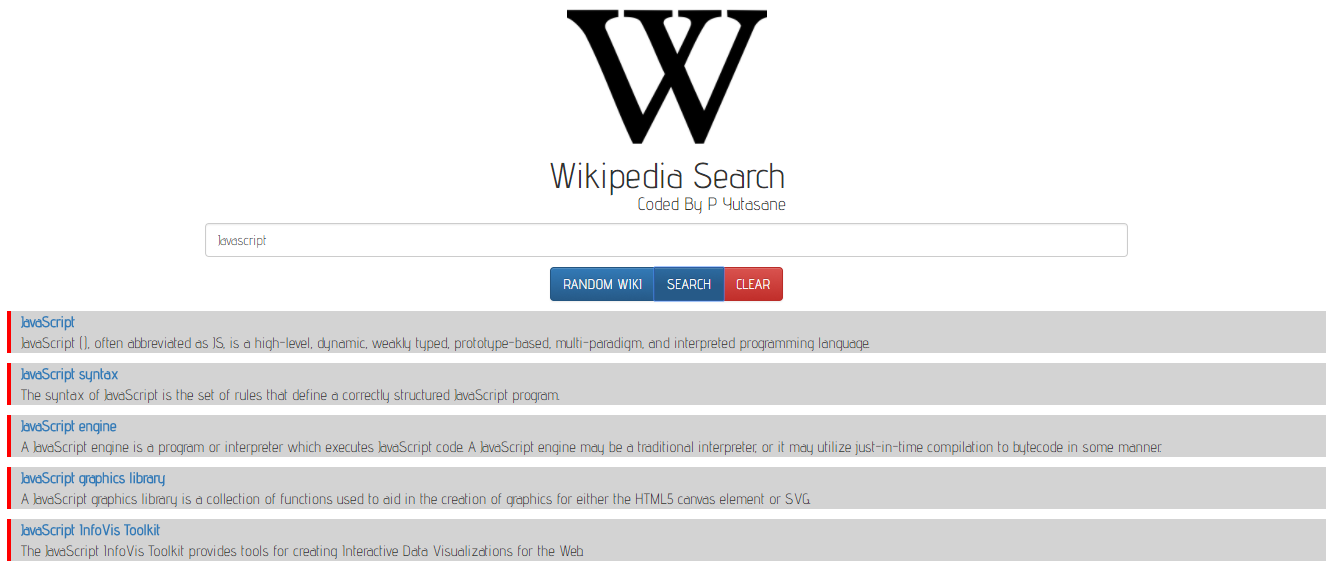
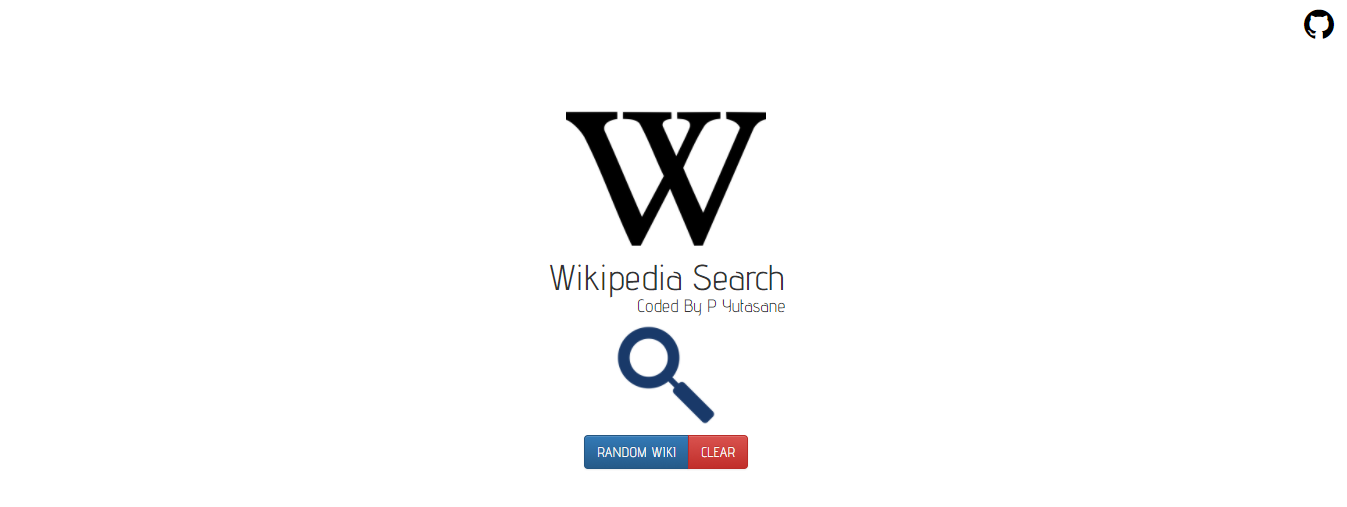
Updated more features

diff --git a/index.html b/index.html
@@ -47,7 +47,7 @@
                         
                     <div class="col-md-12 text-center">
                         <div class="btn-group">
-                        <button class="btn btn-primary btn-md center-block search-button" id="random-wiki" type="button"><a href="https://en.wikipedia.org/wiki/Special:Random">RANDOM WIKI</a></button>    
+                        <button class="btn btn-primary btn-md center-block search-button" id="random-wiki" type="button"><a href="https://en.wikipedia.org/wiki/Special:Random" target="_blank">RANDOM WIKI</a></button>    
                         <button class="btn btn-primary btn-md center-block search-button" id="search-button" type="button">SEARCH</button>				
                         <button class="btn btn-danger btn-md center-block search-button" id="clear-button" type="button">CLEAR</button>
                     </div>

diff --git a/js/wiki-viewer.js b/js/wiki-viewer.js
@@ -24,18 +24,21 @@ $(document).ready(function(){
     $('#magnify').on('click', function(){
         $(this).hide();
         $('#search-box').show(1000);
+        $('#search-button').show(1000);
         $('#search-box').val('');
+        $('#search-box').focus();
     });
 
     $('#clear-button').on('click', function(){
-        $('#result').hide(100);
-        $('#search-box').hide(100);
+        $('#result').hide(1000);
+        $('#search-box').hide(1000);
+        $('#search-button').hide(1000);
         $('#magnify').show(1000)
         $('#search-box').val('');
     });
 
-    $('#search-box').keypress(function(el){
-        if(el.which === 13){
+    $('#search-box').keypress(function(e){
+        if(e.which === 13){
             $('#search-button').click();
         }
     });
@@ -48,3 +51,4 @@ $(document).ready(function(){
     } 
           
     }); 
+

diff --git a/css/wiki-viewer.css b/css/wiki-viewer.css
@@ -22,6 +22,11 @@ body{
     width: 100px;
 }
 
+#magnify:hover{
+    
+    width: 120px;
+}
+
 .search{
     margin-top: -20px;
 }
@@ -97,5 +102,9 @@ body{
 }
 
 #search-box{
+    display: none;
+}
+
+#search-button{
     display: none;
 }
